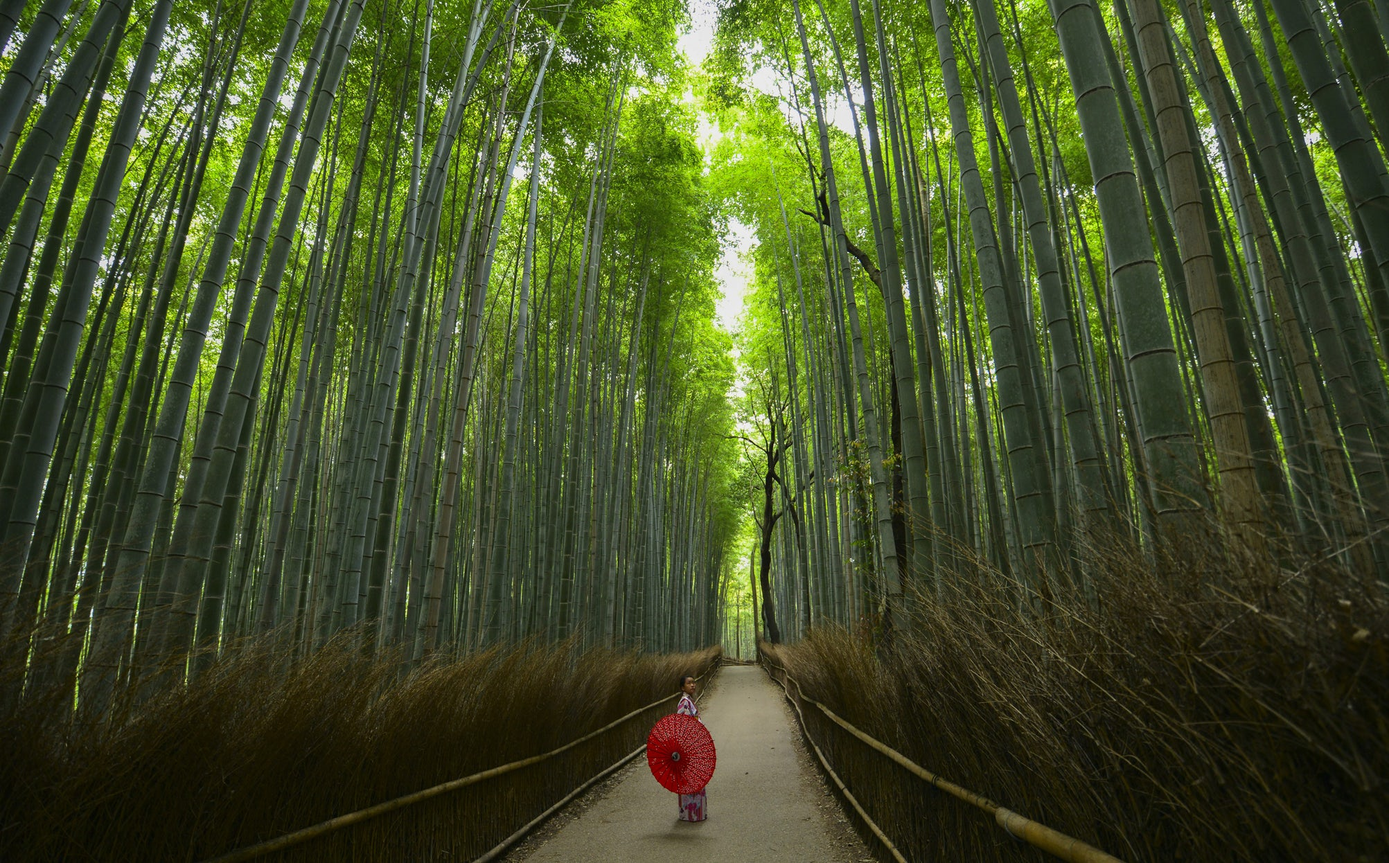
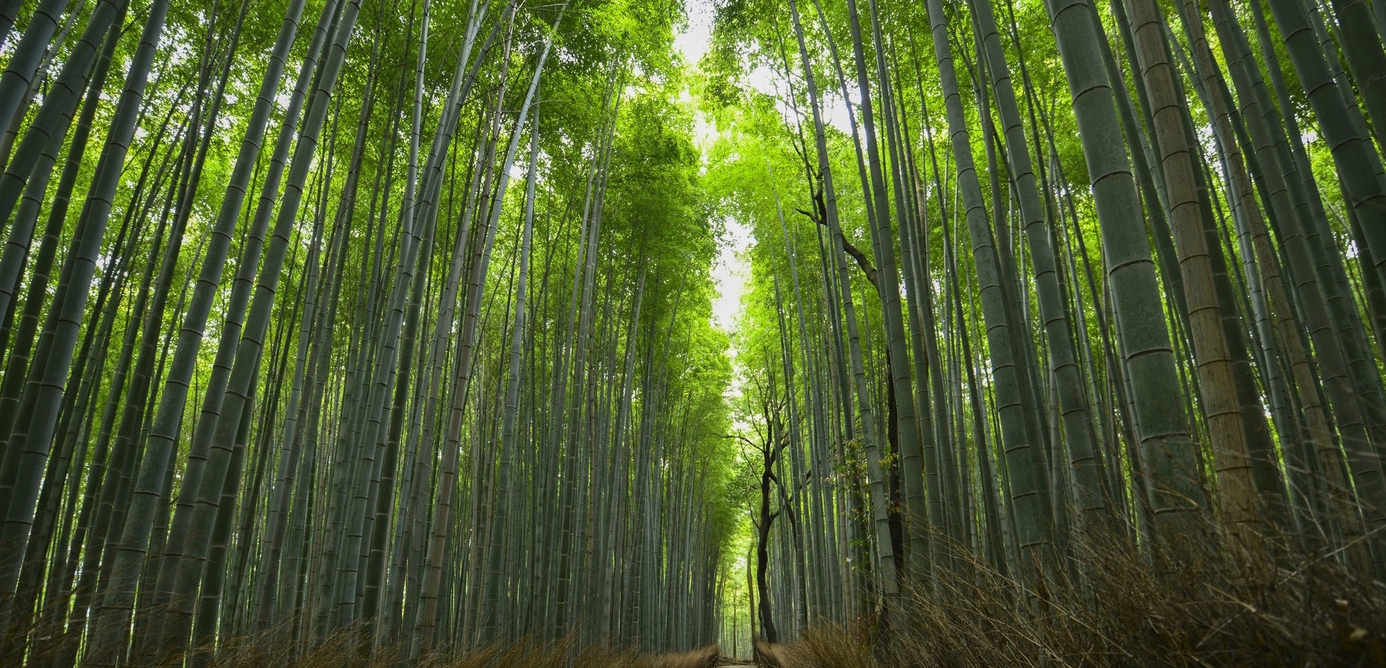
responsive login page css

diff --git a/app/assets/stylesheets/session_form.scss b/app/assets/stylesheets/session_form.scss
@@ -3,15 +3,17 @@
   display: flex;
   align-items: center;
   justify-content: center;
-  width: 100%;
-  height: 100%;
   /*Image courtesy of unsplash, https://unsplash.com/photos/kqfE9mvv7Xw/info */
   background-image: image-url('kyoto-background.jpg');
+  background-repeat: no-repeat;
+  height: 100%;
+  width: 100%;
+  background-position: center;
+  background-size: cover;
 }
 
 .auth-form-container{
-  max-width: 50%;
-  min-width: 600px;
+  width: 100%;
   min-height: 400px;
   padding: 0;
   top: 50%;
@@ -22,8 +24,21 @@
   color: white;
   border-radius: 4px;
   -webkit-animation: fadeIn 1.5s ease;
-
 }
+
+
+@media  (min-width : 493px) {
+  .auth-form-container{
+    max-width: 500px;
+  }
+}
+
+@media  (min-width : 1224px) {
+  .auth-form-container{
+    max-width: 600px;
+  }
+}
+
 
 .auth-form-inner-left{
   min-width: 40%;
